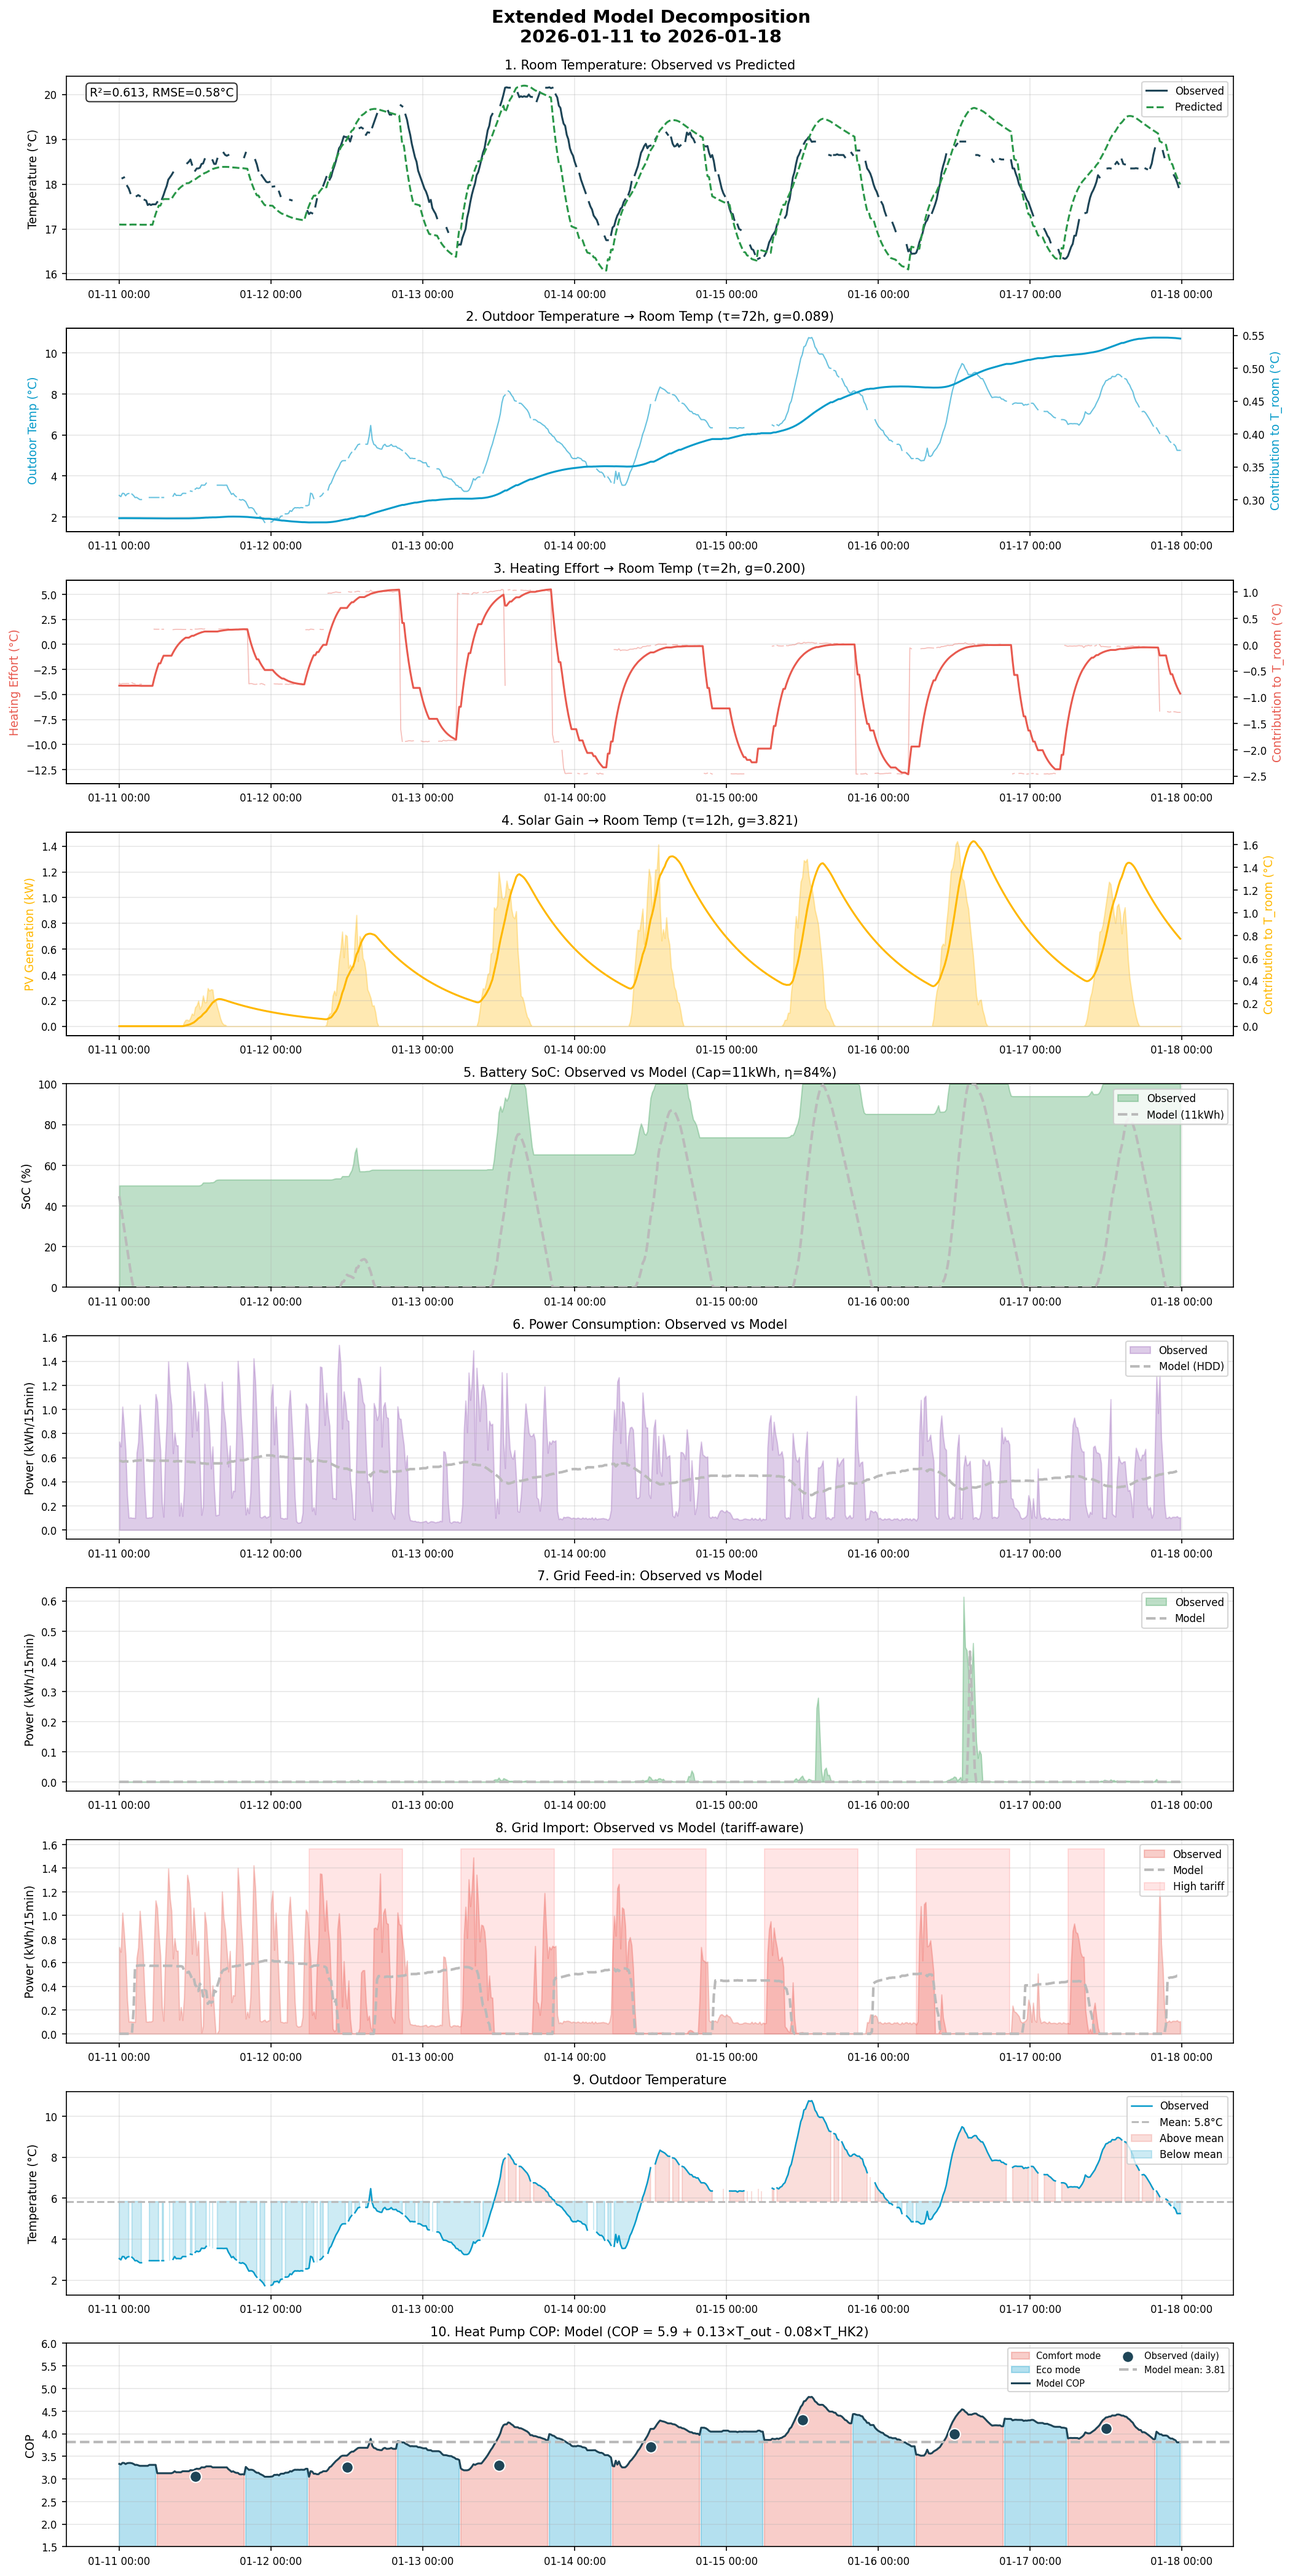
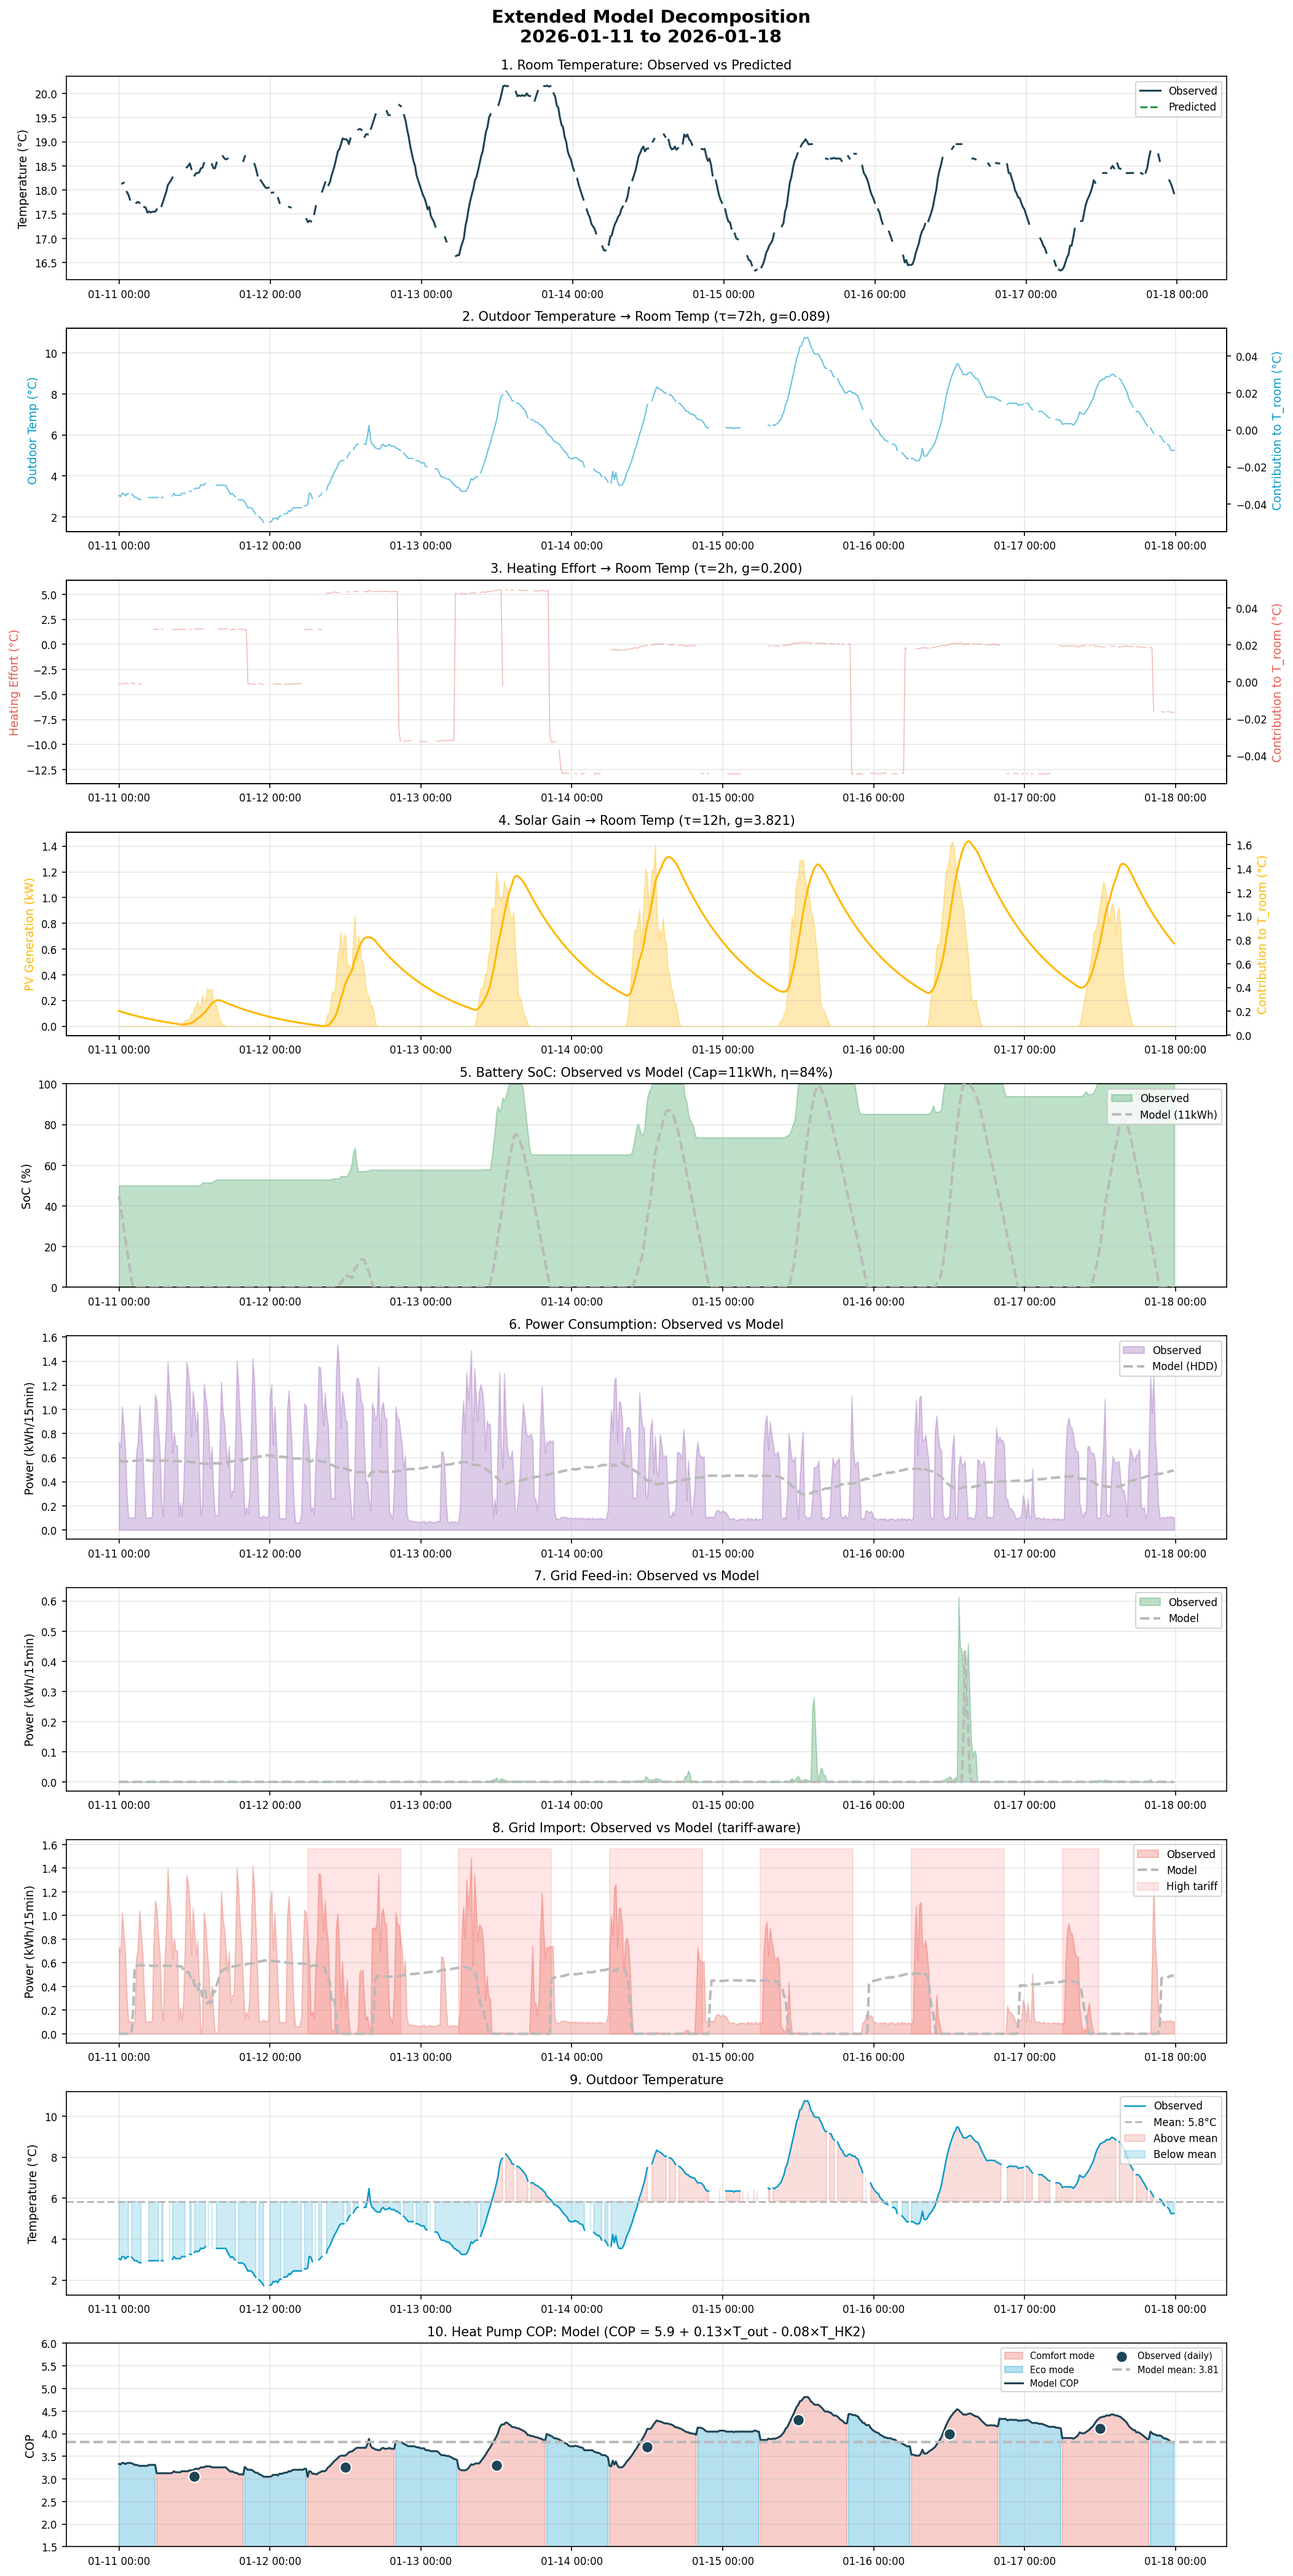
Fix R² mismatch: use full dataset for LPF initialization in extended decomposition
The extended decomposition was applying low-pass filters to week data only,
causing cold-start initialization issues. Now it:
1. Computes LPF on full integrated dataset (proper filter warm-up)
2. Extracts week portion from the filtered signals

This matches the approach in 05_weekly_decomposition.py and ensures
consistent R² values between both report types.

🤖 Generated with [Claude Code](https://claude.com/claude-code)

diff --git a/output/phase3/weekly_decomposition/weekly_decomposition_report.html b/output/phase3/weekly_decomposition/weekly_decomposition_report.html
@@ -123,7 +123,7 @@
 </head>
 <body>
     <h1>Weekly Model Decomposition Report</h1>
-    <p><em>Generated: 2026-01-18 11:16</em></p>
+    <p><em>Generated: 2026-01-18 11:20</em></p>
 
     <div class="summary-box">
         <h3 style="margin-top: 0; border: none; padding-left: 0;">Summary</h3>

diff --git a/src/phase3/06_extended_decomposition.py b/src/phase3/06_extended_decomposition.py
@@ -534,8 +534,23 @@ def create_extended_decomposition(df, energy_df, heating_df, params, hc_params,
     heating_mask = (heating_df.index >= start_date) & (heating_df.index < end_date)
     heating_week = heating_df[heating_mask].copy()
 
-    # Compute model terms
-    terms = compute_model_terms(df_week, params, hc_params)
+    # Compute model terms on FULL dataset for proper LPF initialization, then extract week
+    terms_full = compute_model_terms(df, params, hc_params)
+
+    # Extract week portion from full terms
+    week_idx = df.index.get_indexer(df_week.index)
+    terms = {
+        't_out': terms_full['t_out'][week_idx],
+        'effort': terms_full['effort'][week_idx],
+        'pv': terms_full['pv'][week_idx],
+        'lpf_out': terms_full['lpf_out'][week_idx],
+        'lpf_eff': terms_full['lpf_eff'][week_idx],
+        'lpf_pv': terms_full['lpf_pv'][week_idx],
+        'contrib_out': terms_full['contrib_out'][week_idx],
+        'contrib_eff': terms_full['contrib_eff'][week_idx],
+        'contrib_pv': terms_full['contrib_pv'][week_idx],
+        't_pred': terms_full['t_pred'][week_idx],
+    }
 
     # Get actual room temperature
     t_actual = df_week['davis_inside_temperature'].values
